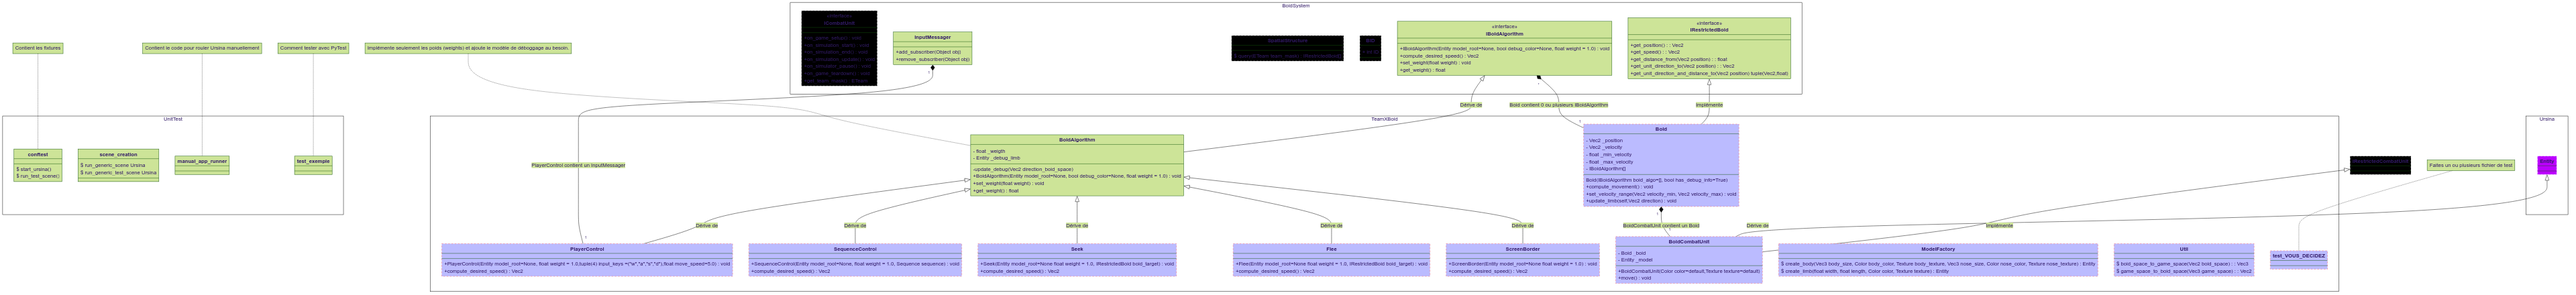
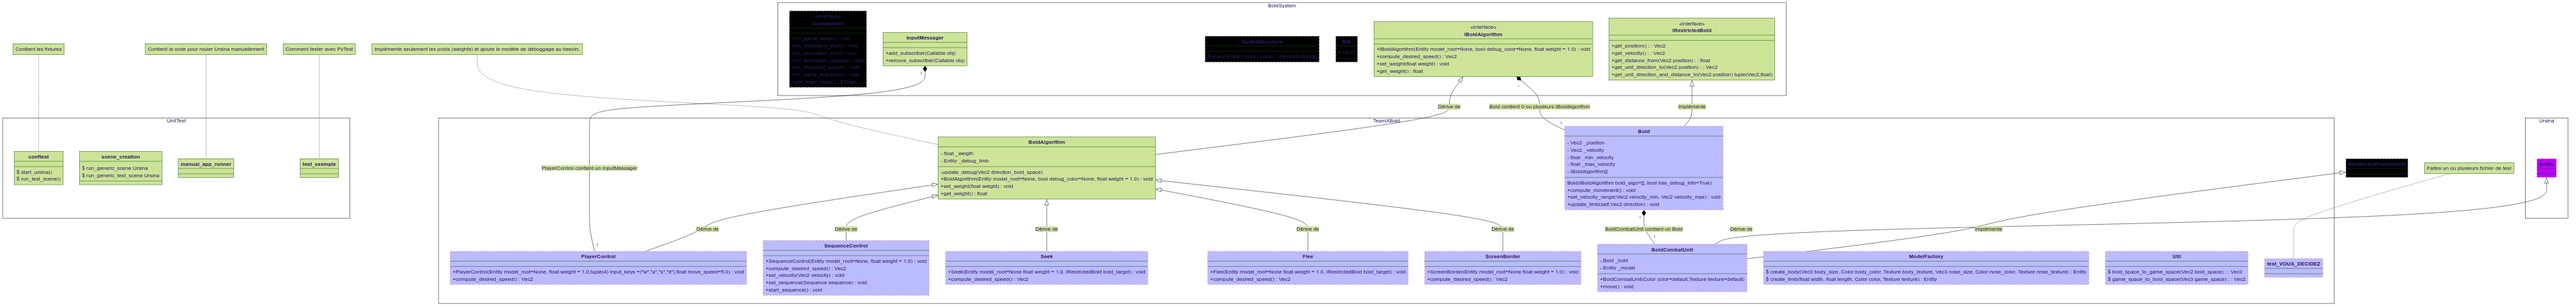
Restricted boid ajouté input messager plus sophistiqué

diff --git a/boid_system/input_messager.py b/boid_system/input_messager.py
@@ -1,24 +1,40 @@
 from ursina import *
+from typing import Callable
 
 class InputMessager(Entity):
     def __init__(self):
         super().__init__()
-        self._subscribers = []
+        self._subscribers = set()
+        self._input_help = set()
 
-    def add_subscriber(self,obj):
-        if hasattr(obj,"input") or hasattr(obj,"input_hold"):
-            self._subscribers.append(obj)
-        else:
-            raise Exception("Object without input or input_hold method! Add the input or input_hold method to fix this.")
+    def add_subscriber(self,callable):
+        self._subscribers.add(callable)
 
-    def remove_subscriber(self,obj):
-        if obj in self._subscribers:
-            self._subscribers.remove(obj)
+    def remove_subscriber(self,callable):
+        if callable in self._subscribers:
+            self._subscribers.remove(callable)
         else:
-            raise Exception("This object is not subscribed!")
+            raise Exception("This callable is not subscribed!")
 
     def input(self,key):
-        # print(key)
-        for x in self._subscribers:
-            if hasattr(x,"input"):
-                x.input(key)
+        print(key)
+        if InputMessager._is_up_event(key):
+            pk = InputMessager._purify_event(key)
+            if pk in self._input_help:
+                self._input_help.remove(pk)
+        else:
+            if key not in self._input_help:
+                self._input_help.add(key)
+    
+    @staticmethod
+    def _is_up_event(key):
+        return key.endswith(" up")
+    
+    @staticmethod
+    def _purify_event(key):
+        return key.split(" up", 1)[0]
+
+    def update(self):
+        for s in self._subscribers:
+            for k in self._input_help:
+                s(k)

diff --git a/boid_system/i_restricted_boid.py b/boid_system/i_restricted_boid.py
@@ -1,0 +1,19 @@
+from abc import ABC, abstractmethod
+from ursina import *
+
+class IRestrictedBoid(ABC):
+    @abstractmethod
+    def get_position(self)->Vec2:
+        pass
+
+    @abstractmethod
+    def get_distance_from(self,position:Vec2)->float:
+        pass
+
+    @abstractmethod
+    def get_unit_direction_to(self,position:Vec2)->Vec2:
+        pass
+
+    @abstractmethod
+    def get_unit_direction_and_distance_to(self,position:Vec2)-> tuple[Vec2,float]:
+        pass

diff --git a/boid_system/i_boid_algorithm.py b/boid_system/i_boid_algorithm.py
@@ -1,8 +1,9 @@
 from abc import ABC, abstractmethod
+from i_restricted_boid import IRestrictedBoid
 from ursina import *
 
 class IBoidAlgorithm(ABC):
-    def __init__(self, root: Entity=None, debug_color:bool=None,weight:float=1.0):
+    def __init__(self,boid_owner:IRestrictedBoid,weight:float=1.0):
         pass
 
     @abstractmethod
